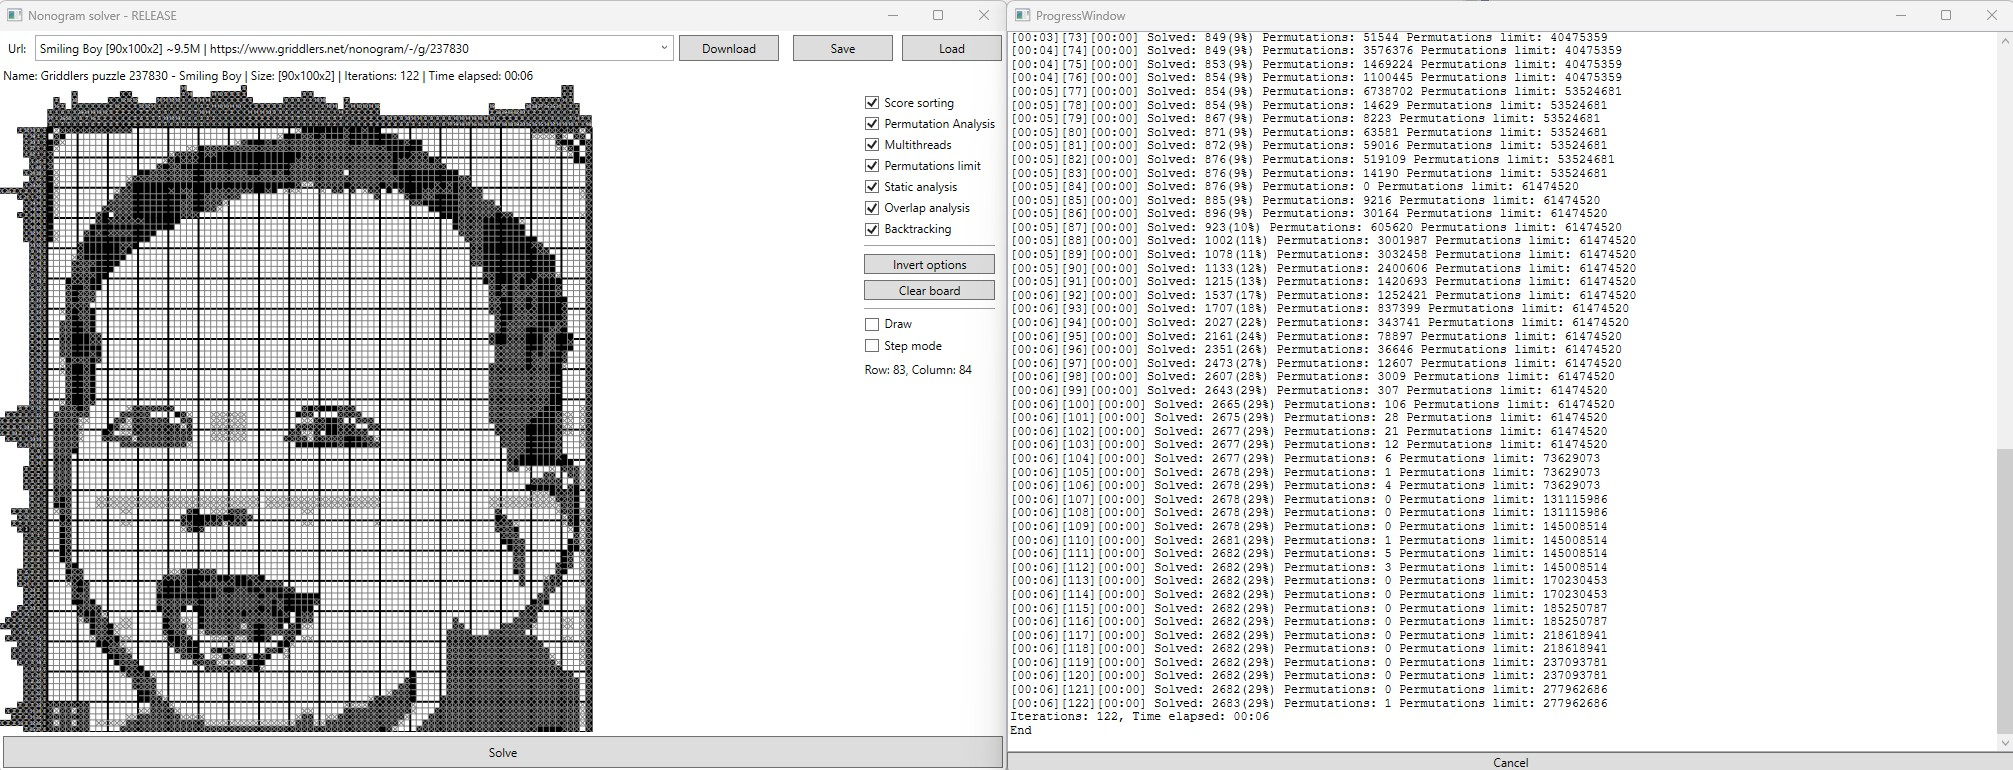
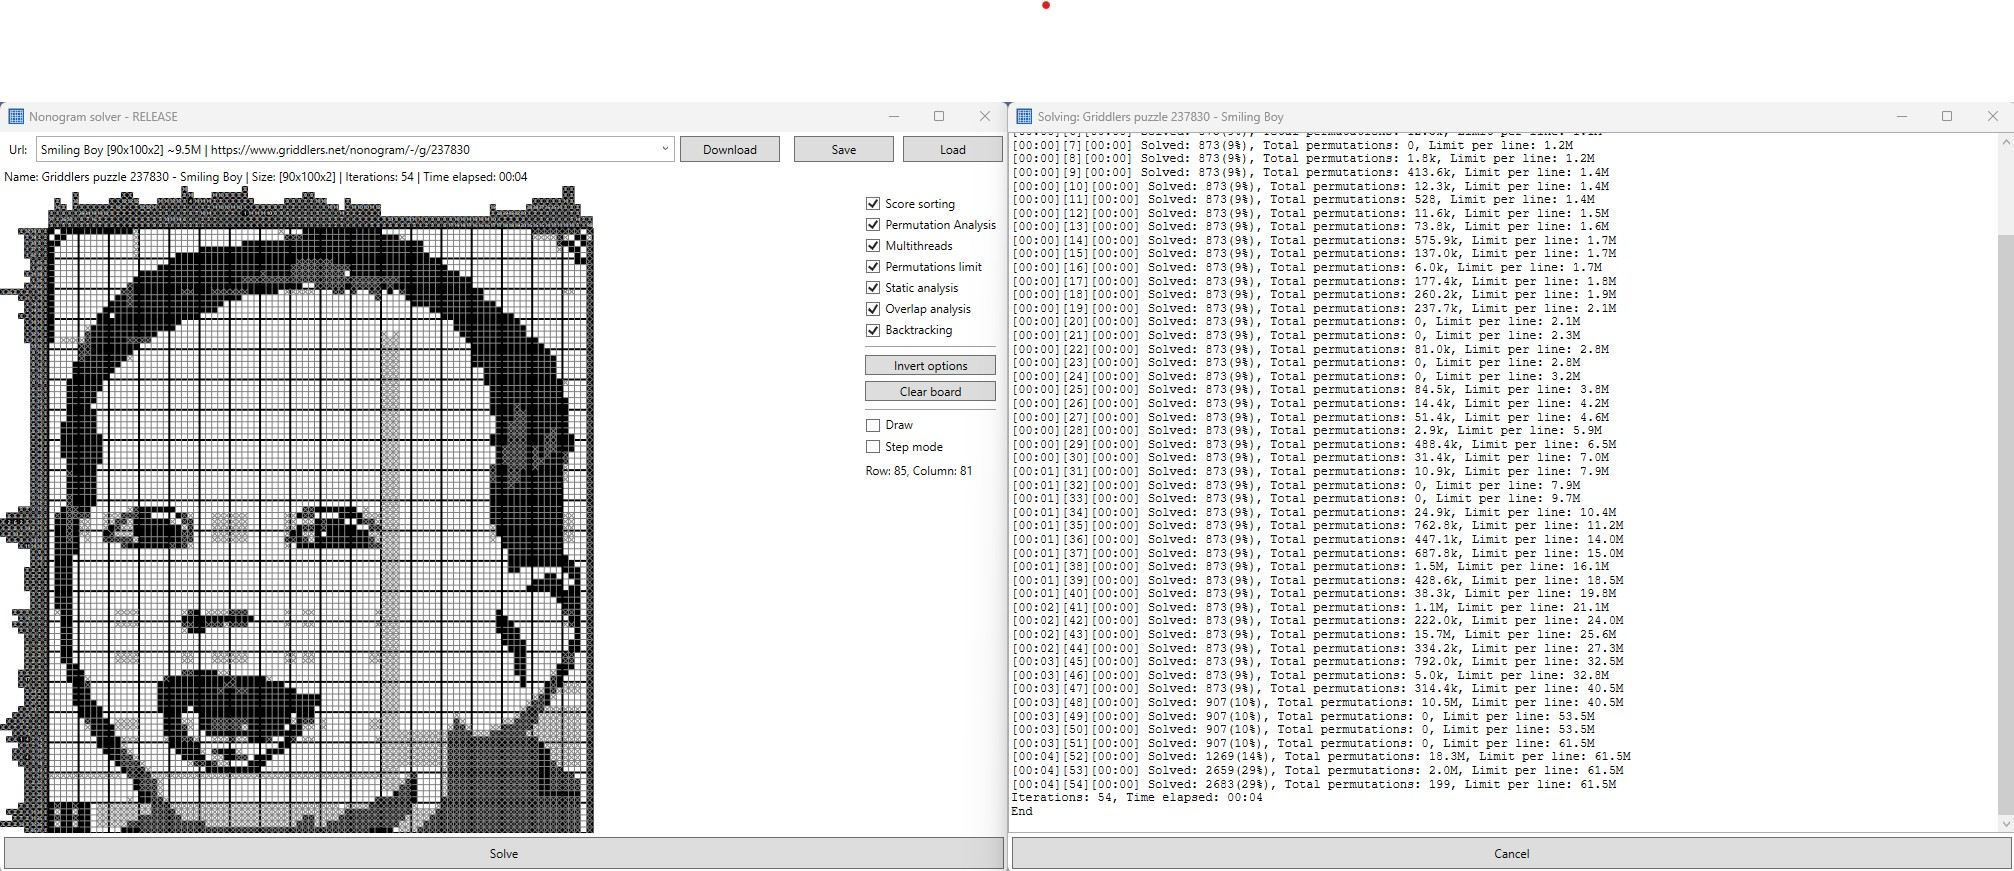
Segmentace řádků na Background buňkách

diff --git a/Src/LineOverlap.cs b/Src/LineOverlap.cs
@@ -77,6 +77,41 @@ namespace Griddler_Solver
         }
       }
 
+      // Pinned hints: hint at exactly one position → write all its cells + separators
+      for (Int32 i = 0; i < hints.Length; i++)
+      {
+        if (leftStart[i] == rightStart[i])
+        {
+          Int32 pos = leftStart[i];
+          Int32 count = hints[i].Count;
+
+          // All hint cells → Color
+          for (Int32 j = pos; j < pos + count; j++)
+          {
+            if (line[j] == CellValue.Unknown)
+            {
+              result[j] = CellValue.Color;
+              anyChanged = true;
+            }
+          }
+
+          // Separator before hint → Background
+          if (pos > 0 && line[pos - 1] == CellValue.Unknown)
+          {
+            result[pos - 1] = CellValue.Background;
+            anyChanged = true;
+          }
+
+          // Separator after hint → Background
+          Int32 afterHint = pos + count;
+          if (afterHint < line.Length && line[afterHint] == CellValue.Unknown)
+          {
+            result[afterHint] = CellValue.Background;
+            anyChanged = true;
+          }
+        }
+      }
+
       // Unreachable cells: not in any hint's possible range → Background
       Boolean[] reachable = new Boolean[line.Length];
       for (Int32 i = 0; i < hints.Length; i++)
